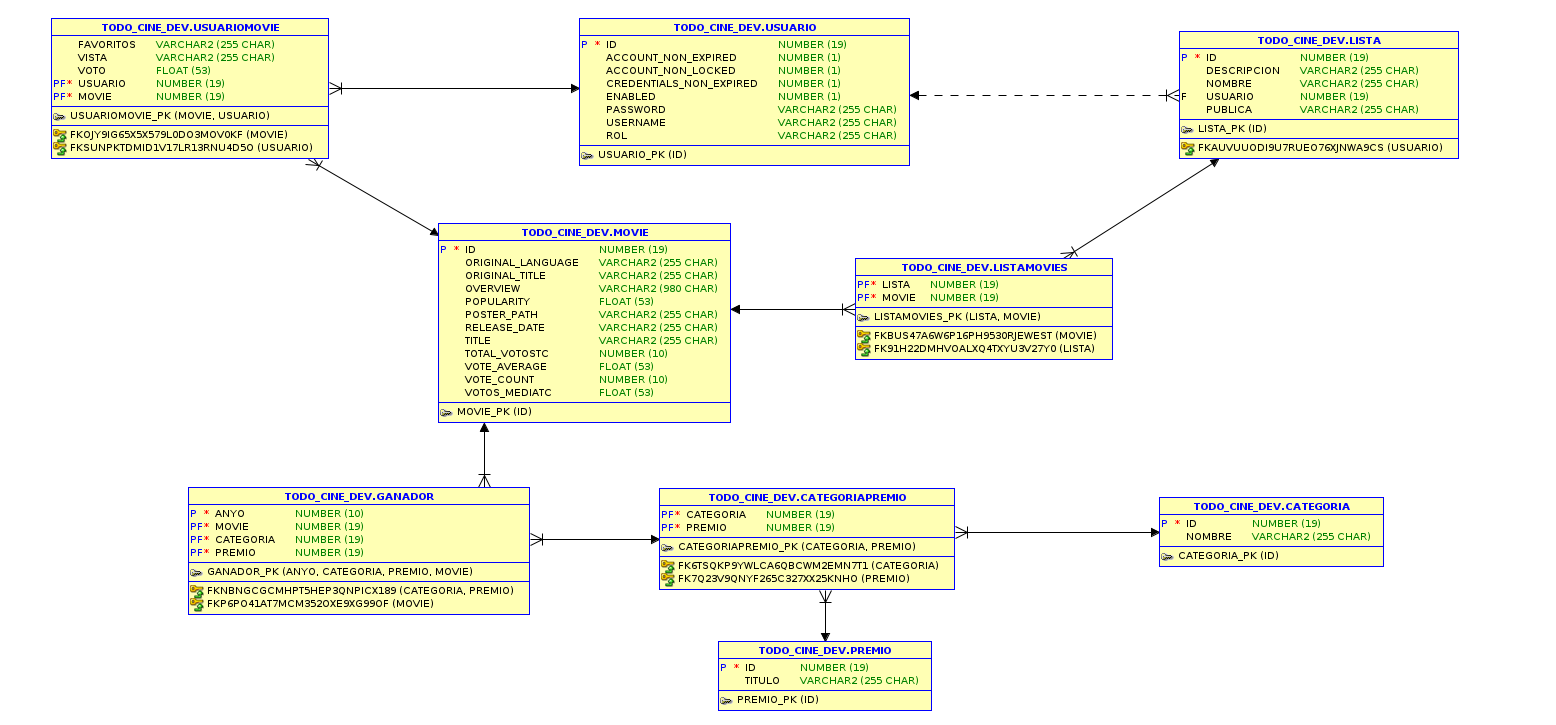
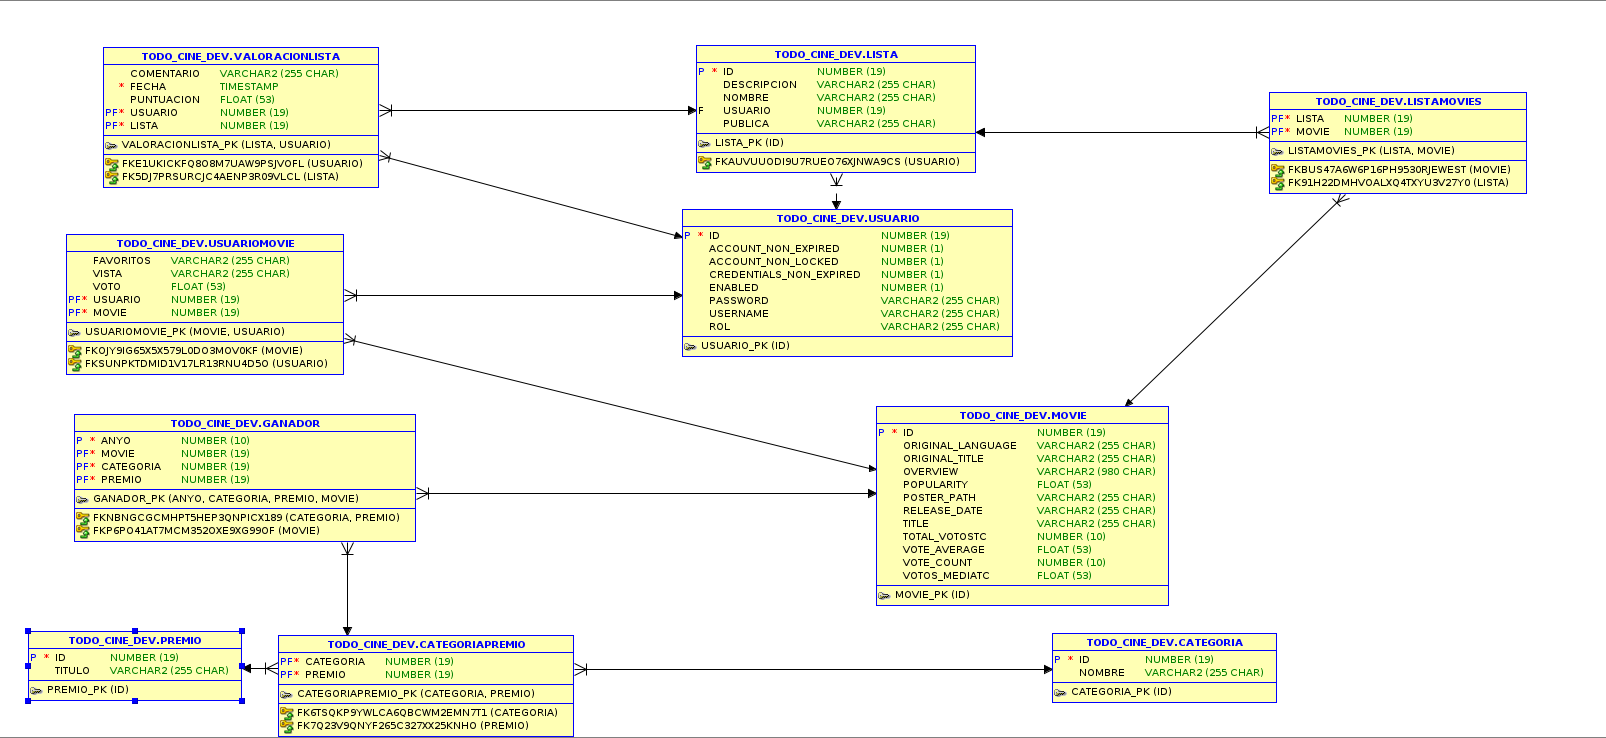
updated README.md

diff --git a/README.md b/README.md
@@ -595,9 +595,9 @@ Removes the relationship between the movie and the list without deleting the mov
 ---
 
 ### [GET] /listas/{id}/valoraciones
-**Get a list of valorations for the specific list**
+**Get a list of opinions about one specific list**
 
-Returns a list of valorations.
+Returns a list of opinions about one list.
 
 #### Parameters
 
@@ -607,12 +607,12 @@ Returns a list of valorations.
 
 #### Responses
 
-| Code | Description | Schema |
-| ---- | ----------- | ------ |
-| 200 | Valorations retrieved successfully | **application/json**: [ [ValoracionListaDTO](#valoracionlistadto) ]<br> |
-| 400 | Invalid data. |  |
-| 403 | Access denied. |  |
-| 404 | Not found. |  |
+| Code | Description                     | Schema |
+| ---- |---------------------------------| ------ |
+| 200 | Opinions retrieved successfully | **application/json**: [ [ValoracionListaDTO](#valoracionlistadto) ]<br> |
+| 400 | Invalid data.                   |  |
+| 403 | Access denied.                  |  |
+| 404 | Not found.                      |  |
 
 ##### Security
 
@@ -621,9 +621,9 @@ Returns a list of valorations.
 | BearerAuth |  |
 
 ### [PUT] /listas/{id}/valoraciones
-**Update or post a valoration**
+**Update or post an opinion**
 
-Updates or posts a valoration about the list
+Updates or posts an opinion about the list
 
 #### Parameters
 
@@ -639,12 +639,12 @@ Updates or posts a valoration about the list
 
 #### Responses
 
-| Code | Description | Schema |
-| ---- | ----------- | ------ |
-| 200 | Valoration created or updated successfully | **application/json**: [ValoracionListaDTO](#valoracionlistadto)<br> |
-| 400 | Invalid data. |  |
-| 403 | Access denied. |  |
-| 404 | Not found. |  |
+| Code | Description                             | Schema |
+| ---- |-----------------------------------------| ------ |
+| 200 | Opinion created or updated successfully | **application/json**: [ValoracionListaDTO](#valoracionlistadto)<br> |
+| 400 | Invalid data.                           |  |
+| 403 | Access denied.                          |  |
+| 404 | Not found.                              |  |
 
 ##### Security
 
@@ -822,23 +822,23 @@ Updates or posts a valoration about the list
 
 #### ValoracionListaDTO
 
-| Name | Type | Description | Required |
-| ---- | ---- | ----------- | -------- |
-| listaId | long | Unique list ID | Yes |
-| puntuacion | double | Rating | Yes |
+| Name | Type | Description              | Required |
+| ---- | ---- |--------------------------| -------- |
+| listaId | long | Unique list ID           | Yes |
+| puntuacion | double | Rating                   | Yes |
 | comentario | string | A comment about the list | No |
-| username | string | Valoration owner | Yes |
-| fecha | string | Valoration creation date | Yes |
+| username | string | Opinion owner            | Yes |
+| fecha | string | Opinion creation date    | Yes |
 
 #### ValoracionListaReqDTO
 
-| Name | Type | Description | Required |
-| ---- | ---- | ----------- | -------- |
-| listaId | long | Unique list ID | Yes |
-| puntuacion | double | Rating | Yes |
+| Name | Type | Description              | Required |
+| ---- | ---- |--------------------------| -------- |
+| listaId | long | Unique list ID           | Yes |
+| puntuacion | double | Rating                   | Yes |
 | comentario | string | A comment about the list | No |
-| username | string | Valoration owner | Yes |
-| fecha | string | Valoration creation date | No |
+| username | string | Opinion owner            | Yes |
+| fecha | string | Opinion creation date    | No |
 
 
 ## Entity-Relation Diagram